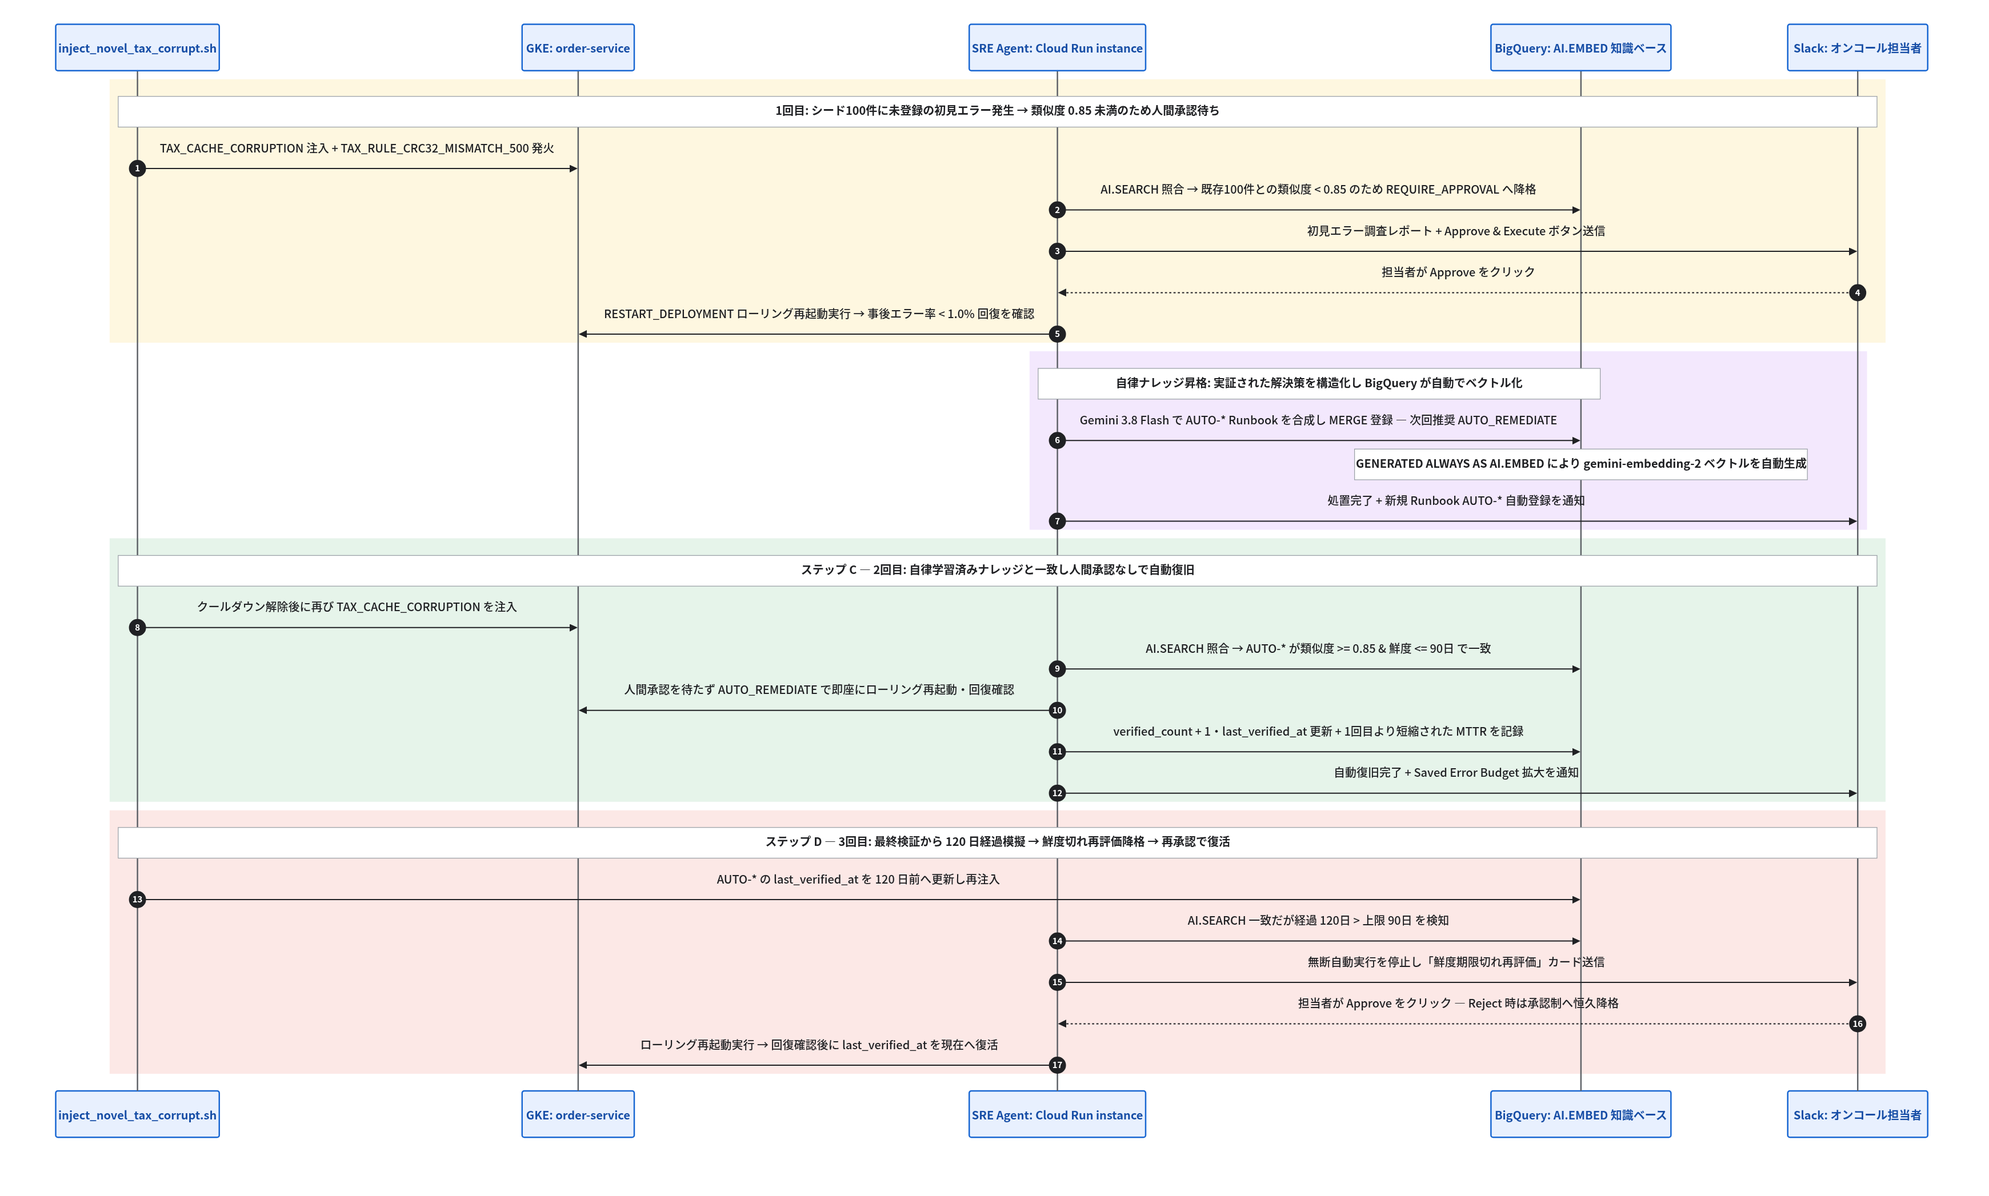
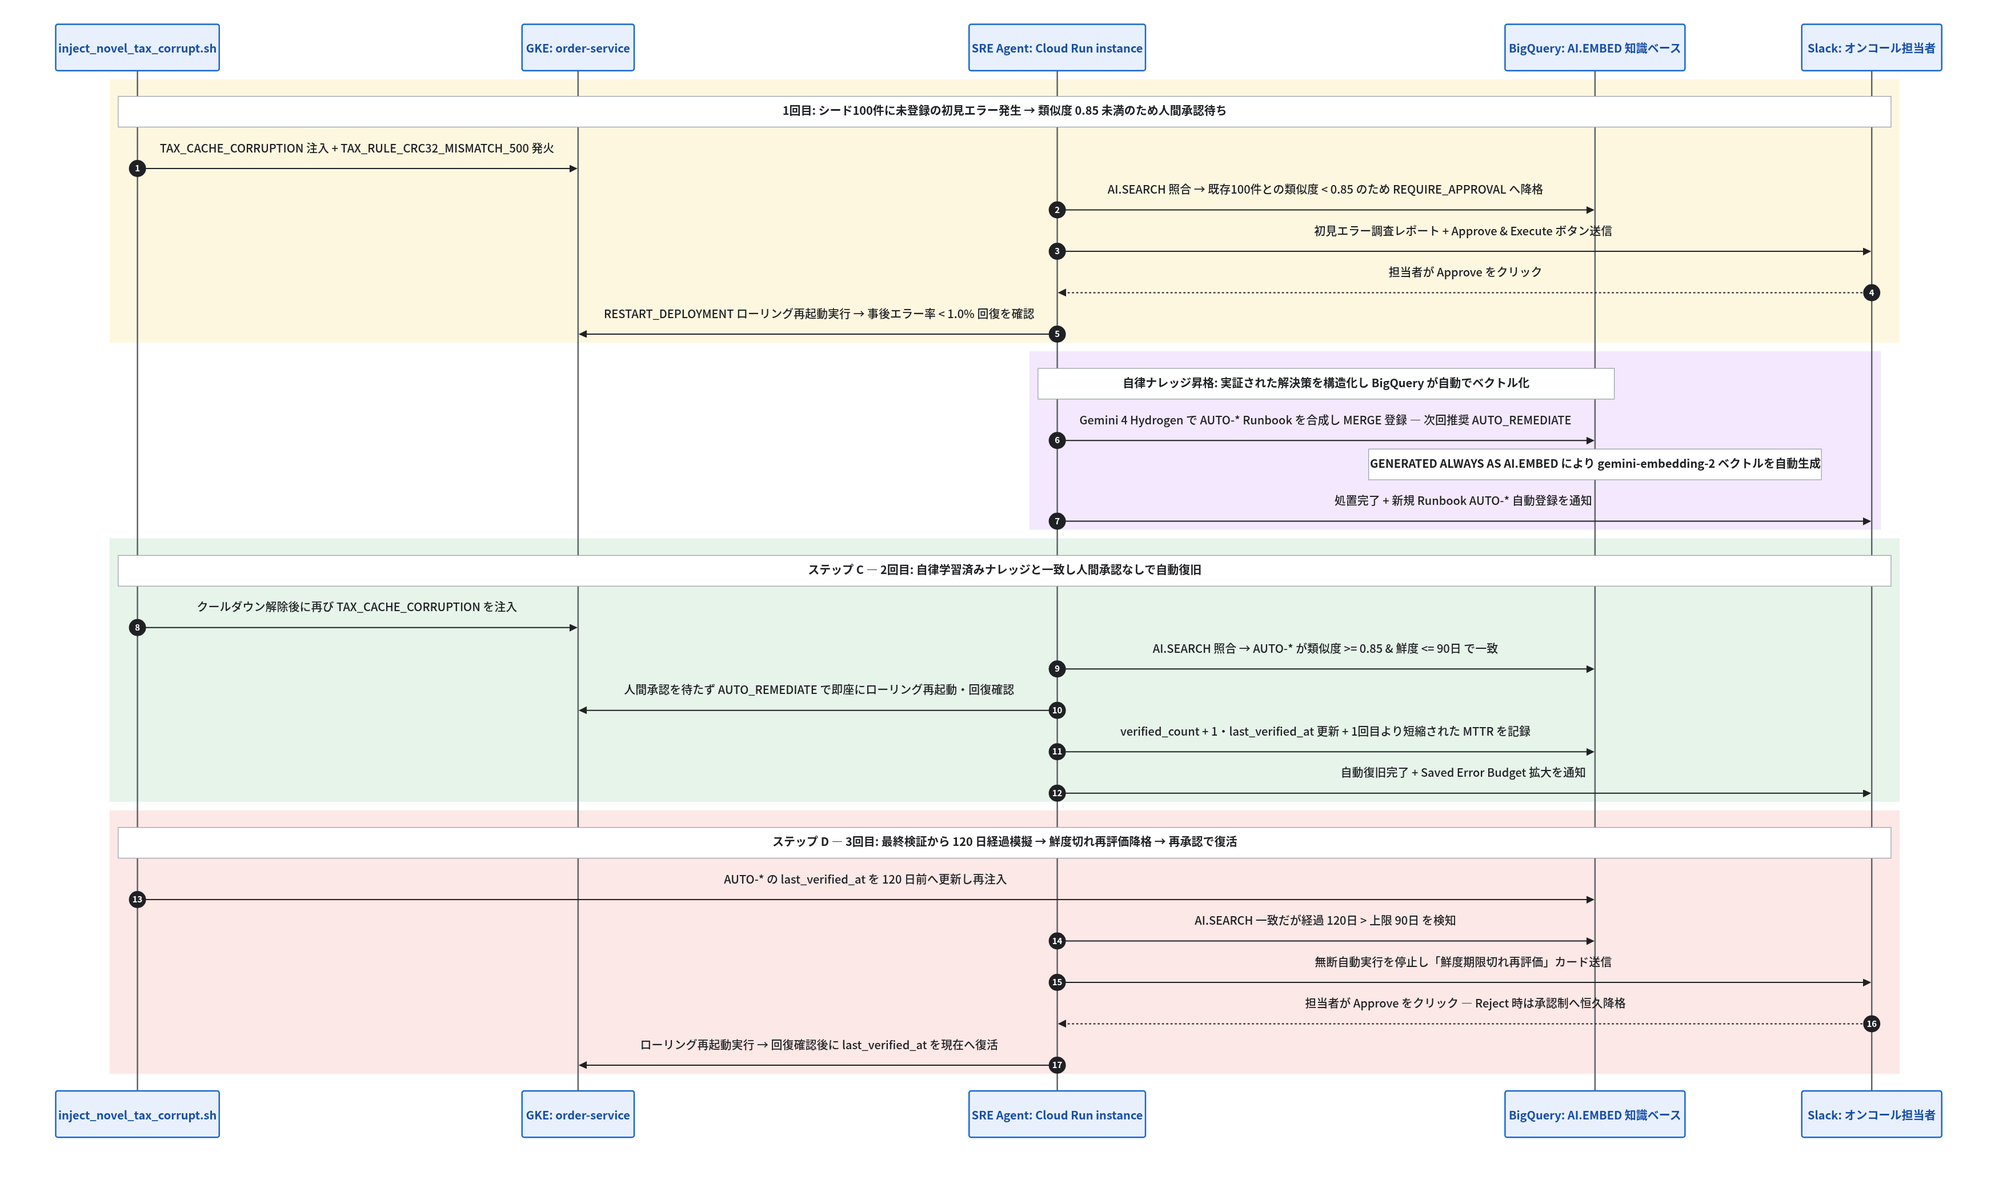
feat: migrate default triage model to Gemini 4 Hydrogen (gemini-4-hydrogen)

diff --git a/sre-agent/agent_app/vector_kb.py b/sre-agent/agent_app/vector_kb.py
@@ -140,13 +140,22 @@ def synthesize_runbook_deterministic(
 
 
 def build_llm_runbook_synthesizer(settings: AgentSettings) -> RunbookSynthesizerFn:
-    """Gemini 3.8 Flash を用いて解決済みインシデントから高品質な構造化 Runbook を生成する関数を返す。"""
+    """Gemini 4 Hydrogen を用いて解決済みインシデントから高品質な構造化 Runbook を生成する関数を返す。"""
+    thinking_level = settings.triage_thinking_level.strip().upper()
+    gen_config = (
+        types.GenerateContentConfig(
+            thinking_config=types.ThinkingConfig(thinking_level=thinking_level)
+        )
+        if thinking_level
+        else None
+    )
     synth_agent = Agent(
         name="sre_runbook_synthesizer",
         model=Gemini(
             model=settings.triage_model,
             retry_options=types.HttpRetryOptions(attempts=2),
         ),
+        generate_content_config=gen_config,
         instruction=(
             "あなたは本番 SRE チームのナレッジベース管理者です。\n"
             "人間の承認を経て解決・確認された初見インシデントの情報を受け取り、\n"

diff --git a/tests/test_production_review_hardening.py b/tests/test_production_review_hardening.py
@@ -514,3 +514,20 @@ async def test_heartbeat_loop_ci_workflow_and_estimated_budget_wording(capsys: p
     )
     assert "仮定" in impact.impact_summary
     assert "推定" in impact.impact_summary
+
+
+def test_default_model_is_gemini_4_hydrogen_with_medium_thinking(monkeypatch: pytest.MonkeyPatch) -> None:
+    """既定推論モデルが gemini-4-hydrogen かつ思考レベル MEDIUM で初期化されること。"""
+    monkeypatch.delenv("SRE_TRIAGE_MODEL", raising=False)
+    monkeypatch.delenv("SRE_THINKING_LEVEL", raising=False)
+    settings = AgentSettings()
+    assert settings.triage_model == "gemini-4-hydrogen"
+    assert settings.triage_thinking_level == "MEDIUM"
+
+    from agent_app.vector_kb import build_llm_runbook_synthesizer
+    from agent_app.workflow import build_llm_decision_analyzer
+
+    analyzer = build_llm_decision_analyzer(settings, enable_remote_mcp=False)
+    synthesizer = build_llm_runbook_synthesizer(settings)
+    assert callable(analyzer)
+    assert callable(synthesizer)

diff --git a/bigquery/import_markdown_runbooks.py b/bigquery/import_markdown_runbooks.py
@@ -173,7 +173,7 @@ def extract_with_gemini(md_text: str, fallback_title: str, model_name: str) -> E
         config=types.GenerateContentConfig(
             response_mime_type="application/json",
             response_schema=ExtractedRunbookRecord,
-            temperature=0.0,
+            thinking_config=types.ThinkingConfig(thinking_level="MEDIUM"),
         ),
     )
     if not response.text:
@@ -219,7 +219,7 @@ def main(argv: list[str] | None = None) -> int:
     parser.add_argument("--prefix", default="CUST", help="runbook_id の接頭辞（既定: CUST）")
     parser.add_argument(
         "--model",
-        default=os.getenv("SRE_TRIAGE_MODEL", "gemini-3.8-flash"),
+        default=os.getenv("SRE_TRIAGE_MODEL", "gemini-4-hydrogen"),
         help="項目の抽出に使う Gemini モデル（既定は環境変数 SRE_TRIAGE_MODEL）",
     )
     parser.add_argument("--offline", action="store_true", help="API を呼ばず、見出しの語から項目を拾う")

diff --git a/sre-agent/agent_app/config.py b/sre-agent/agent_app/config.py
@@ -29,8 +29,9 @@ class AgentSettings:
     region: str = field(default_factory=lambda: os.getenv("GOOGLE_CLOUD_REGION", "asia-northeast1"))
     genai_location: str = field(default_factory=lambda: os.getenv("GOOGLE_CLOUD_LOCATION", "global"))
 
-    # Gemini モデル設定（既定は現行 GA の gemini-3.8-flash / gemini-embedding-2）
-    triage_model: str = field(default_factory=lambda: os.getenv("SRE_TRIAGE_MODEL", "gemini-3.8-flash"))
+    # Gemini モデル設定（既定は現行 GA の gemini-4-hydrogen / gemini-embedding-2）
+    triage_model: str = field(default_factory=lambda: os.getenv("SRE_TRIAGE_MODEL", "gemini-4-hydrogen"))
+    triage_thinking_level: str = field(default_factory=lambda: os.getenv("SRE_THINKING_LEVEL", "MEDIUM"))
     embedding_model: str = field(default_factory=lambda: os.getenv("SRE_EMBEDDING_MODEL", "gemini-embedding-2"))
 
     # Pub/Sub 常時購読設定

diff --git a/README.md b/README.md
@@ -39,7 +39,7 @@ flowchart TB
         direction LR
         Dedup["1. 重複排除・補完<br/>15分排他リース + 直近90秒エラー率"]
         Diag["2. 並列診断 JoinNode<br/>Cloud Run sandbox + AI.SEARCH 照合"]
-        Decide["3. Gemini 3.8 Flash<br/>公式リモート MCP 読取 + 相関推論"]
+        Decide["3. Gemini 4 Hydrogen<br/>公式リモート MCP 読取 + 相関推論"]
         Guard["4. 安全ガードレール<br/>許可NS・推奨一致・鮮度90日・1回/h・静観誘導棄却"]
         Dedup --> Diag --> Decide --> Guard
     end
@@ -123,7 +123,7 @@ flowchart TB
 
 ## 3. ローカル環境でのクイックテスト（クラウド課金 \$0）
 
-Google Cloud へデプロイする前に、手元の Python 3.11+ 仮想環境で全 **111 件**の単体・整合性テストを実行できます（GitHub Actions CI でも自動実行されます）。
+Google Cloud へデプロイする前に、手元の Python 3.11+ 仮想環境で全 **112 件**の単体・整合性テストを実行できます（GitHub Actions CI でも自動実行されます）。
 
 * 検証範囲: 重複排除・Firestore 排他リース・サンドボックス隔離・知識ベース照合（100 件／汎用 240 件）・ADK 2.x 3 分岐・誘導耐性・健全版ロールバック・承認再開・Error Budget 計算・クイックスタート整合性
 
@@ -138,17 +138,17 @@ pytest -v
 
 ## 4. Google Cloud 利用料金の目安（東京 `asia-northeast1`・無料枠控除前の定価基準）
 
-イベント駆動（異常発生時のみ LLM 起動）かつ軽量構成のため、実施後に第 6 章のクリーンアップを行えば、無料枠を差し引かない定価計算でも **総額 1 ドル未満（約 \$0.72〜\$0.86）** で完走できます。
+イベント駆動（異常発生時のみ LLM 起動）かつ軽量構成のため、実施後に第 6 章のクリーンアップを行えば、無料枠を差し引かない定価計算でも **総額 1 ドル未満（約 \$0.77〜\$0.87）** で完走できます。
 
 ### A. ハンズオン実施時・クリーンアップ未実施で放置した場合の料金
 
 | ケース | 想定状況 | 概算コスト (USD) | 定価ベースの内訳 |
 |---|---|---:|---|
-| **① 通常実施（推奨）** | 約 4 時間実施し、終了後に第 6 章の削除手順を実行 | **約 \$0.72〜\$0.86** | GKE クラスタ管理手数料 4 時間（\$0.40）＋ GKE Pod 群 4 時間（\$0.14）＋ Cloud NAT 4 時間（\$0.02）＋ Cloud Run instance 2 時間（\$0.03）＋ Cloud Build・100 件自動ベクトル化・障害訓練 4 シナリオ分の Gemini 推論（\$0.14〜\$0.24） |
-| **② クイックスタート** | 約 90 分で実施し、終了後に `quickstart/cleanup.sh` を実行 | **約 \$0.37〜\$0.47** | GKE クラスタ管理手数料 1.5 時間（\$0.15）＋ GKE Pod 群 1.5 時間（\$0.05）＋ Cloud NAT 1.5 時間（\$0.01）＋ Cloud Run instance 1 時間（\$0.02）＋ Cloud Build・100 件自動ベクトル化・障害訓練の Gemini 推論（\$0.14〜\$0.24） |
+| **① 通常実施（推奨）** | 約 4 時間実施し、終了後に第 6 章の削除手順を実行 | **約 \$0.77〜\$0.87** | GKE クラスタ管理手数料 4 時間（\$0.40）＋ GKE Pod 群 4 時間（\$0.14）＋ Cloud NAT 4 時間（\$0.02）＋ Cloud Run instance 2 時間（\$0.03）＋ Cloud Build・100 件自動ベクトル化・障害訓練 4 シナリオ分の Gemini 推論（\$0.18〜\$0.28） |
+| **② クイックスタート** | 約 90 分で実施し、終了後に `quickstart/cleanup.sh` を実行 | **約 \$0.41〜\$0.51** | GKE クラスタ管理手数料 1.5 時間（\$0.15）＋ GKE Pod 群 1.5 時間（\$0.05）＋ Cloud NAT 1.5 時間（\$0.01）＋ Cloud Run instance 1 時間（\$0.02）＋ Cloud Build・100 件自動ベクトル化・障害訓練の Gemini 推論（\$0.18〜\$0.28） |
 | **③ 1 ヶ月放置（未削除）** | 削除せず 730 時間稼働させたまま放置 | **約 \$115 / 月** | GKE クラスタ管理手数料（\$73.00）＋ GKE Autopilot Pod 群（\$25.60）＋ 常駐 Cloud Run instance 1 台（\$11.56）＋ Cloud NAT 待機（約 \$4.00）＋ Artifact Registry・Secret Manager・ログメトリクス（約 \$0.40）。平時の Pub/Sub・Gemini 推論は \$0.00 |
 
-* **無料枠適用時の目安**: 請求先アカウントに GKE Autopilot 1 台目や Cloud Logging（月 50 GiB）の無料枠が残っている場合、①通常実施は **約 \$0.32〜\$0.42**、②クイックスタートは **約 \$0.22〜\$0.32**、③1 ヶ月放置は **約 \$38 / 月** に下がります。
+* **無料枠適用時の目安**: 請求先アカウントに GKE Autopilot 1 台目や Cloud Logging（月 50 GiB）の無料枠が残っている場合、①通常実施は **約 \$0.37〜\$0.47**、②クイックスタートは **約 \$0.26〜\$0.36**、③1 ヶ月放置は **約 \$38 / 月** に下がります。
 * **メール通知（代替ルート）の料金**: Application Integration の定価は 1,000 回あたり \$0.50（月 400 回まで無料枠あり）です。訓練 1 周の送信数（フル版 9 通／クイックスタートはテスト込み 8 通）は \$0.01 未満です。
 * **一時停止で待機課金を抑える方法**: 数日後に再実施する場合は `gcloud beta run instances stop` と `kubectl scale deployment order-service order-traffic-generator -n sre-demo-app --replicas=0` で稼働課金を止められます。GKE 管理手数料（\$0.10/時間）も止める場合はクラスタを削除してください。
 
@@ -158,11 +158,11 @@ pytest -v
 
 | 運用規模 | 監視対象・実質トリアージ発火件数 | エージェント常駐基盤 | 月額コスト目安 (USD) | 定価ベースの主な内訳 |
 |---|---|---|---:|---|
-| **小規模** | 1〜3 サービス監視 ／ **月 30 件**（平均 1 件/日） ／ 知識ベース 500 件 | Cloud Run instance 1 台（`2 vCPU / 2 GiB`） | **約 \$13〜\$14 / 月** | 常駐基盤 \$11.56 ＋ `gemini-3.8-flash` 推論 \$1.02〜\$2.03 ＋ BigQuery・Pub/Sub・Firestore・SLO 監視等 \$0.35 |
-| **中規模** | 10〜30 サービス監視 ／ **月 300 件**（平均 10 件/日） ／ 知識ベース 2,000 件 | Cloud Run instance 1 台（`2 vCPU / 4 GiB`） | **約 \$35〜\$48 / 月** | 常駐基盤 \$21.71 ＋ `gemini-3.8-flash` 推論 \$12.40〜\$24.78 ＋ BigQuery・Pub/Sub・Firestore・SLO 監視等 \$0.70 |
-| **大規模** | 50〜100+ サービス監視 ／ **月 1,500 件**（平均 50 件/日） ／ 知識ベース 10,000 件 | Cloud Run instances 冗長 2 台（各 `4 vCPU / 8 GiB`） | **約 \$165〜\$240 / 月** | 常駐基盤 \$86.83 ＋ `gemini-3.8-flash` 推論 \$73.28〜\$146.40 ＋ BigQuery・Pub/Sub・Firestore・ログ保管等 \$3.50 |
+| **小規模** | 1〜3 サービス監視 ／ **月 30 件**（平均 1 件/日） ／ 知識ベース 500 件 | Cloud Run instance 1 台（`2 vCPU / 2 GiB`） | **約 \$14〜\$15 / 月** | 常駐基盤 \$11.56 ＋ `gemini-4-hydrogen` 推論 \$2.03〜\$2.93 ＋ BigQuery・Pub/Sub・Firestore・SLO 監視等 \$0.35 |
+| **中規模** | 10〜30 サービス監視 ／ **月 300 件**（平均 10 件/日） ／ 知識ベース 2,000 件 | Cloud Run instance 1 台（`2 vCPU / 4 GiB`） | **約 \$43〜\$52 / 月** | 常駐基盤 \$21.71 ＋ `gemini-4-hydrogen` 推論 \$20.25〜\$29.25 ＋ BigQuery・Pub/Sub・Firestore・SLO 監視等 \$0.70 |
+| **大規模** | 50〜100+ サービス監視 ／ **月 1,500 件**（平均 50 件/日） ／ 知識ベース 10,000 件 | Cloud Run instances 冗長 2 台（各 `4 vCPU / 8 GiB`） | **約 \$192〜\$237 / 月** | 常駐基盤 \$86.83 ＋ `gemini-4-hydrogen` 推論 \$101.25〜\$146.25 ＋ BigQuery・Pub/Sub・Firestore・ログ保管等 \$3.50 |
 
-* **推論単価の前提**: `gemini-3.8-flash`（入力 \$0.75〜\$1.50・出力 \$3.75〜\$7.50 / 100 万トークン）およびリモート MCP ツール往復（1 件あたり入力 2.5 万〜3.5 万・出力 4,000〜6,000 トークン想定）で算出しています。
+* **推論単価の前提**: `gemini-4-hydrogen` の Global オンデマンド定価（入力 \$1.50・出力 \$7.50 / 100 万トークン）とリモート MCP ツール往復（1 件あたり入力 2.5 万〜3.5 万・出力 4,000〜6,000 トークン想定）で算出しています。4,096 トークン以上の共通プレフィックスには暗黙的キャッシュ割引も自動適用されます。
 * **発展構成選択時の補足**: 第 6 章オプション A の専用 GKE Standard `microVM` クラスタ（`n4-standard-4` 等）で常駐させる場合は **約 \$360〜\$470 / 月** が目安となります。
 
 ---

diff --git a/AGENTS.md b/AGENTS.md
@@ -26,7 +26,7 @@
 ## 2. アーキテクチャと実装の原則
 
 1. **モデル名とリージョンの外部化**:
-   - 推論モデル（既定: `gemini-3.8-flash`）および埋め込みモデル（既定: `gemini-embedding-2`）は `sre-agent/agent_app/config.py` 経由で環境変数から取得し、旧世代モデル名をコードへ直書きしないでください。
+   - 推論モデル（既定: `gemini-4-hydrogen`）および埋め込みモデル（既定: `gemini-embedding-2`）は `sre-agent/agent_app/config.py` 経由で環境変数から取得し、旧世代モデル名をコードへ直書きしないでください。
    - Cloud Run instances は `us-central1`・`us-east1`・`europe-west1` では利用できないため、既定リージョンは `asia-northeast1`（東京）を使用します。
 2. **調査と変更の厳格な分離（Two-Phase Execution Boundary）**:
    - **Phase 1（読み取り調査）**: Google 公式リモート MCP（Monitoring / Logging / GKE `read-only` の観測 10 ツール＋Developer Knowledge の公式ドキュメント検索 2 ツール）および隔離サンドボックス（`/usr/local/gcp/bin/sandbox do`）のみを使用し、対象クラスタの状態を変更しません。
@@ -37,4 +37,4 @@
 4. **SLO・Error Budget 効果の誠実な計測**:
    - `sre-agent/agent_app/slo_metrics.py` において、実測 MTTR と温存 Error Budget 分数（Saved Error Budget）は型付き復旧を実行し事後回復が確認されたケースのみ計上し、静観や手動調査引き継ぎ時に架空の短縮時間を計上しないでください。
 5. **仮想環境での検証**:
-   - コード変更後は必ず `.venv` 仮想環境上で `pytest -v` を実行し、全テスト（111 件）が通過することを確認してください。クイックスタートのスクリプトやフル版のコマンドを変更した場合は、両者の食い違いを `tests/test_quickstart_consistency.py` が検出します。片方だけでなく両方を合わせて変更してください。
+   - コード変更後は必ず `.venv` 仮想環境上で `pytest -v` を実行し、全テスト（112 件）が通過することを確認してください。クイックスタートのスクリプトやフル版のコマンドを変更した場合は、両者の食い違いを `tests/test_quickstart_consistency.py` が検出します。片方だけでなく両方を合わせて変更してください。

diff --git a/docs/05-deploy-cloud-run-instance-and-drills.md b/docs/05-deploy-cloud-run-instance-and-drills.md
@@ -25,7 +25,7 @@ flowchart LR
     end
 
     PS["1. Cloud Pub/Sub<br/>StreamingPull: アラート用 + 承認専用"]
-    GCP["2. 公式 MCP / BigQuery / Firestore<br/>Gemini 3.8 Flash"]
+    GCP["2. 公式 MCP / BigQuery / Firestore<br/>Gemini 4 Hydrogen"]
     GKE["3. 監視対象 GKE<br/>sre-demo-app/order-service"]
     Slack["4. Slack ワークスペース<br/>Socket Mode 外向き WSS"]
     Mail["5. Application Integration<br/>通知メール送信: Slack を使えない場合の代替"]
@@ -397,7 +397,7 @@ sequenceDiagram
 
     rect rgb(243, 232, 253)
         Note over Agent,BQ: 自律ナレッジ昇格: 実証された解決策を構造化し BigQuery が自動でベクトル化
-        Agent->>BQ: Gemini 3.8 Flash で AUTO-* Runbook を合成し MERGE 登録 — 次回推奨 AUTO_REMEDIATE
+        Agent->>BQ: Gemini 4 Hydrogen で AUTO-* Runbook を合成し MERGE 登録 — 次回推奨 AUTO_REMEDIATE
         Note over BQ: GENERATED ALWAYS AS AI.EMBED により gemini-embedding-2 ベクトルを自動生成
         Agent->>Slack: 処置完了 + 新規 Runbook AUTO-* 自動登録を通知
     end

diff --git a/docs/06-optional-hardening-and-cleanup.md b/docs/06-optional-hardening-and-cleanup.md
@@ -86,7 +86,7 @@ kubectl apply -f ./appendix/gke-microvm/network-policy-metadata-deny.yaml
 flowchart LR
     LogTool["監視対象ログ & MCP 応答<br/>untrusted_log_summary 境界タグ付与"] -->|"未信頼データ検査"| Plugin["Model Armor 多言語検査<br/>MODEL_ARMOR_TEMPLATE_ID / ModelArmorPlugin"]
     Plugin -->|"攻撃検知"| Block["脅威検知時: 安全退避・遮断<br/>LLM 判断を飛ばし REQUIRE_APPROVAL 通知"]
-    Plugin -->|"確認 OK"| Model["安全性確認 OK: Gemini 3.8 Flash<br/>相関推論 / 継続中の静観誤誘導も後段で棄却"]
+    Plugin -->|"確認 OK"| Model["安全性確認 OK: Gemini 4 Hydrogen<br/>相関推論 / 継続中の静観誤誘導も後段で棄却"]
 
     classDef base fill:#ffffff,stroke:#4285F4,stroke-width:1.5px,color:#202124;
     classDef guard fill:#f3e8fd,stroke:#A142F4,stroke-width:2px,color:#202124;

diff --git a/docs/04-auto-remediation-and-slack-hitl.md b/docs/04-auto-remediation-and-slack-hitl.md
@@ -64,7 +64,7 @@ flowchart TD
     S --> P1["@node: analyze_metrics_in_sandbox<br/>隔離空間でスロープ計算"]
     S --> P2["@node: search_similar_incidents<br/>BigQuery AI.SEARCH 上位3件照合"]
     P1 & P2 --> J["JoinNode: join_diagnostics<br/>両方の診断完了を待機・合流"]
-    J --> LLM["@node: correlate_and_decide<br/>gemini-3.8-flash + 公式リモート MCP<br/>TriageDecision 構造化出力"]
+    J --> LLM["@node: correlate_and_decide<br/>gemini-4-hydrogen + 公式リモート MCP<br/>TriageDecision 構造化出力"]
     LLM --> Router["@node: enforce_guardrails_and_route<br/>許可NS・類似度・鮮度90日・1回/h検査"]
 
     Router -->|"route = OBSERVE"| N1["@node: observe_node<br/>変更操作なし・静観記録"]
